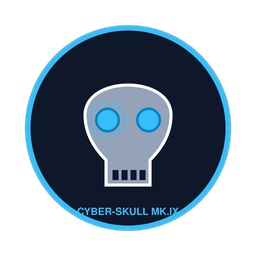
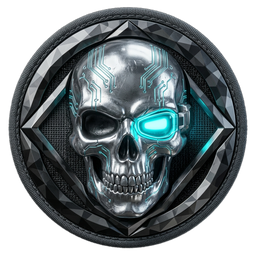
fix(cosmetics): mount 3d operator patches to chest, add high-detail decals, and fix startup scale flash
- Mount operator patches snug against chest bone (Spine2) with physical 3D backing plate and shadow casting
- Enable front-side culling and depth writing so patches naturally occlude behind character model
- Replace placeholder patches with high-fidelity transparent RGBA decals (Sub-Zero Pioneer, Radiation Trefoil, Sporesnail Crest, Cyber-Skull Pin, Cryo-Phoenix)
- Fix startup UI scaling flash via synchronous inline layout tokens and responsive CSS calculation
- Add unit tests for operatorPatch and update retail asset reports

diff --git a/src/operatorPatch.test.js b/src/operatorPatch.test.js
@@ -1,0 +1,90 @@
+import { afterEach, describe, expect, it, vi } from 'vitest';
+import * as THREE from 'three';
+import { createOperatorPatch } from './operatorPatch.js';
+
+describe('createOperatorPatch', () => {
+    afterEach(() => {
+        vi.restoreAllMocks();
+    });
+
+    function createTestRig() {
+        const root = new THREE.Group();
+        root.name = 'TestRoot';
+        const spine = new THREE.Bone();
+        spine.name = 'mixamorigSpine';
+        const spine1 = new THREE.Bone();
+        spine1.name = 'mixamorigSpine1';
+        const spine2 = new THREE.Bone();
+        spine2.name = 'mixamorigSpine2';
+        spine.add(spine1);
+        spine1.add(spine2);
+        root.add(spine);
+
+        const bodyMesh = new THREE.Mesh(
+            new THREE.BoxGeometry(0.5, 1.85, 0.3),
+            new THREE.MeshStandardMaterial({ color: 0x333333 })
+        );
+        bodyMesh.position.y = 0.925;
+        root.add(bodyMesh);
+
+        return { root, spine2, bodyMesh };
+    }
+
+    it('mounts to the chest bone (Spine2) when available', () => {
+        const { root, spine2 } = createTestRig();
+        const patch = createOperatorPatch(root, { targetHeight: 1.85 });
+
+        expect(patch.root.name).toBe('OperatorChestPatch');
+        expect(patch.root.parent).toBe(spine2);
+
+        const backing = patch.root.getObjectByName('PatchClothBacking');
+        const face = patch.root.getObjectByName('PatchArtwork');
+
+        expect(backing).toBeDefined();
+        expect(face).toBeDefined();
+        expect(backing.castShadow).toBe(true);
+        expect(backing.receiveShadow).toBe(true);
+        expect(face.material.transparent).toBe(true);
+        expect(face.material.depthTest).toBe(true);
+        expect(face.material.depthWrite).toBe(true);
+        expect(face.material.side).toBe(THREE.FrontSide);
+    });
+
+    it('positions the patch snug against the chest', () => {
+        const { root } = createTestRig();
+        const patch = createOperatorPatch(root, { targetHeight: 1.85 });
+
+        expect(patch.root.position.x).toBeGreaterThan(0);
+        expect(patch.root.position.z).toBeGreaterThan(0);
+        // Snug distance in front of spine (between 3cm and 8cm)
+        expect(patch.root.position.z).toBeLessThan(0.09);
+    });
+
+    it('loads patch images and manages texture lifecycle', () => {
+        const { root } = createTestRig();
+        let loadedCallback = null;
+        const fakeLoader = {
+            load: vi.fn((url, onLoad) => {
+                loadedCallback = onLoad;
+            })
+        };
+
+        const patch = createOperatorPatch(root, { targetHeight: 1.85, loader: fakeLoader });
+        expect(patch.root.visible).toBe(false);
+
+        patch.setImage('/economy/patch_scout.png');
+        expect(fakeLoader.load).toHaveBeenCalled();
+
+        const fakeTexture = new THREE.Texture();
+        const disposeSpy = vi.spyOn(fakeTexture, 'dispose');
+        loadedCallback(fakeTexture);
+
+        expect(patch.root.visible).toBe(true);
+        const face = patch.root.getObjectByName('PatchArtwork');
+        expect(face.material.map).toBe(fakeTexture);
+
+        patch.dispose();
+        expect(disposeSpy).toHaveBeenCalled();
+        expect(patch.root.parent).toBeNull();
+    });
+});

diff --git a/src/operatorPatch.js b/src/operatorPatch.js
@@ -31,14 +31,15 @@ export function createOperatorPatch(root, { targetHeight = 1.85, loader = new TH
         ray.set(start, forward.clone().negate());
         return ray.intersectObjects(bodyMeshes, false)[0];
     };
-    const width = targetHeight * 0.085;
-    const thickness = targetHeight * 0.0025;
-    const gap = targetHeight * 0.001;
+    const width = targetHeight * 0.082;
+    const thickness = targetHeight * 0.0035;
+    const gap = targetHeight * 0.0006;
     // Corners also sample the armor, preventing a flat patch cutting into a
-    // curved breastplate. At most a few millimeters of fabric stand-off remain.
+    // curved breastplate. Keeps the patch snug against the chest plate without floating.
     const hits = [[0, 0], [-0.35, -0.35], [0.35, -0.35], [-0.35, 0.35], [0.35, 0.35]]
         .map(([x, y]) => sample(x * width, y * width)).filter(Boolean);
-    const depth = hits.length ? Math.max(...hits.map((hit) => hit.point.clone().sub(anchor).dot(forward))) : targetHeight * 0.075;
+    const measuredDepth = hits.length ? Math.max(...hits.map((hit) => hit.point.clone().sub(anchor).dot(forward))) : targetHeight * 0.028;
+    const depth = THREE.MathUtils.clamp(measuredDepth, targetHeight * 0.02, targetHeight * 0.038);
     anchor.addScaledVector(forward, depth + gap + thickness / 2);
 
     const mount = new THREE.Group();
@@ -48,17 +49,34 @@ export function createOperatorPatch(root, { targetHeight = 1.85, loader = new TH
     mount.position.copy(anchor);
     mount.quaternion.copy(rotation);
     const backing = new THREE.Mesh(
-        new RoundedBoxGeometry(width * 0.9, width * 0.9, thickness, 2, thickness * 0.4),
-        new THREE.MeshStandardMaterial({ color: 0x181d22, roughness: 0.96, metalness: 0, depthTest: true, depthWrite: true })
+        new RoundedBoxGeometry(width * 0.94, width * 0.94, thickness, 2, thickness * 0.35),
+        new THREE.MeshStandardMaterial({
+            color: 0x14181c,
+            roughness: 0.92,
+            metalness: 0.1,
+            depthTest: true,
+            depthWrite: true
+        })
     );
     backing.name = 'PatchClothBacking';
-    const face = new THREE.Mesh(new THREE.PlaneGeometry(width, width), new THREE.MeshStandardMaterial({
-        roughness: 0.95, metalness: 0, alphaTest: 0.15, side: THREE.FrontSide, depthTest: true, depthWrite: true
-    }));
+    const face = new THREE.Mesh(
+        new THREE.PlaneGeometry(width, width),
+        new THREE.MeshStandardMaterial({
+            roughness: 0.85,
+            metalness: 0.08,
+            transparent: true,
+            alphaTest: 0.05,
+            side: THREE.FrontSide,
+            depthTest: true,
+            depthWrite: true
+        })
+    );
     face.name = 'PatchArtwork';
-    face.position.z = thickness / 2 + targetHeight * 0.0002;
+    face.position.z = thickness / 2 + 0.0006;
     for (const mesh of [backing, face]) {
         mesh.userData.isOperatorPatch = true;
+        mesh.castShadow = true;
+        mesh.receiveShadow = true;
         mesh.renderOrder = 7;
         mesh.frustumCulled = false;
         mount.add(mesh);

diff --git a/index.html b/index.html
@@ -99,9 +99,46 @@
           }
         };
       }
+
+      // Synchronously compute initial responsive stage layout tokens so the loading
+      // screen never flashes at 1px / unscaled size before main.js evaluates.
+      try {
+        var w = window.innerWidth || (document.documentElement && document.documentElement.clientWidth) || 1280;
+        var h = window.innerHeight || (document.documentElement && document.documentElement.clientHeight) || 800;
+        var bu = Math.min(w / 160, h / 100);
+        var scale = window.localStorage ? window.localStorage.getItem('hb_ui_scale') : null;
+        var mult = (Number(scale) || 100) / 100;
+        var root = document.documentElement;
+        if (root && root.style) {
+          root.style.setProperty('--vw-actual', w + 'px');
+          root.style.setProperty('--vh-actual', h + 'px');
+          root.style.setProperty('--vu', bu + 'px');
+          root.style.setProperty('--vu-text', (bu * mult) + 'px');
+          root.style.setProperty('--ui-scale-multiplier', String(mult));
+          root.style.setProperty('--stage-px', (bu / 8) + 'px');
+        }
+      } catch (e) {}
     })();
   </script>
   <div id="game-viewport">
+    <script>
+      (function () {
+        try {
+          var w = window.innerWidth || 1280;
+          var h = window.innerHeight || 800;
+          var bu = Math.min(w / 160, h / 100);
+          var scale = window.localStorage ? window.localStorage.getItem('hb_ui_scale') : null;
+          var mult = (Number(scale) || 100) / 100;
+          var vp = document.getElementById('game-viewport');
+          if (vp && vp.style) {
+            vp.style.setProperty('--vu', bu + 'px');
+            vp.style.setProperty('--vu-text', (bu * mult) + 'px');
+            vp.style.setProperty('--ui-scale-multiplier', String(mult));
+            vp.style.setProperty('--stage-px', (bu / 8) + 'px');
+          }
+        } catch (e) {}
+      })();
+    </script>
     <button id="global-skip-intro-btn" class="global-skip-btn hidden">SKIP INTRO</button>
     <div id="damage-vignette-layer" class="hidden">
       <div id="hit-indicator-wedge"></div>

diff --git a/style.css b/style.css
@@ -34,6 +34,12 @@
   --scrollbar-thumb-hover: rgba(46, 196, 182, 0.72);
   --design-width: 160;
   --design-height: 100;
+  --vw-actual: 100vw;
+  --vh-actual: 100dvh;
+  --ui-scale-multiplier: 1;
+  --vu: min(calc(var(--vw-actual, 100vw) / 160), calc(var(--vh-actual, 100dvh) / 100));
+  --vu-text: calc(var(--vu) * var(--ui-scale-multiplier, 1));
+  --stage-px: calc(var(--vu) / 8);
   /* Safe-frame + type floor tokens, per
      docs/steam-deck-first-display-and-input-spec.md. Values are logical
      1280x800-stage pixels; --stage-px converts them to host px at runtime
@@ -121,8 +127,9 @@ body {
 }
 
 #game-viewport {
-  --vu: 1px;
+  --vu: min(calc(var(--vw-actual, 100vw) / 160), calc(var(--vh-actual, 100dvh) / 100));
   --vu-text: calc(var(--vu) * var(--ui-scale-multiplier, 1));
+  --stage-px: calc(var(--vu) / 8);
   --gutter: calc(var(--vu) * 4);
   --font-xl: calc(var(--vu-text) * 18);
   --font-lg: calc(var(--vu-text) * 6);
